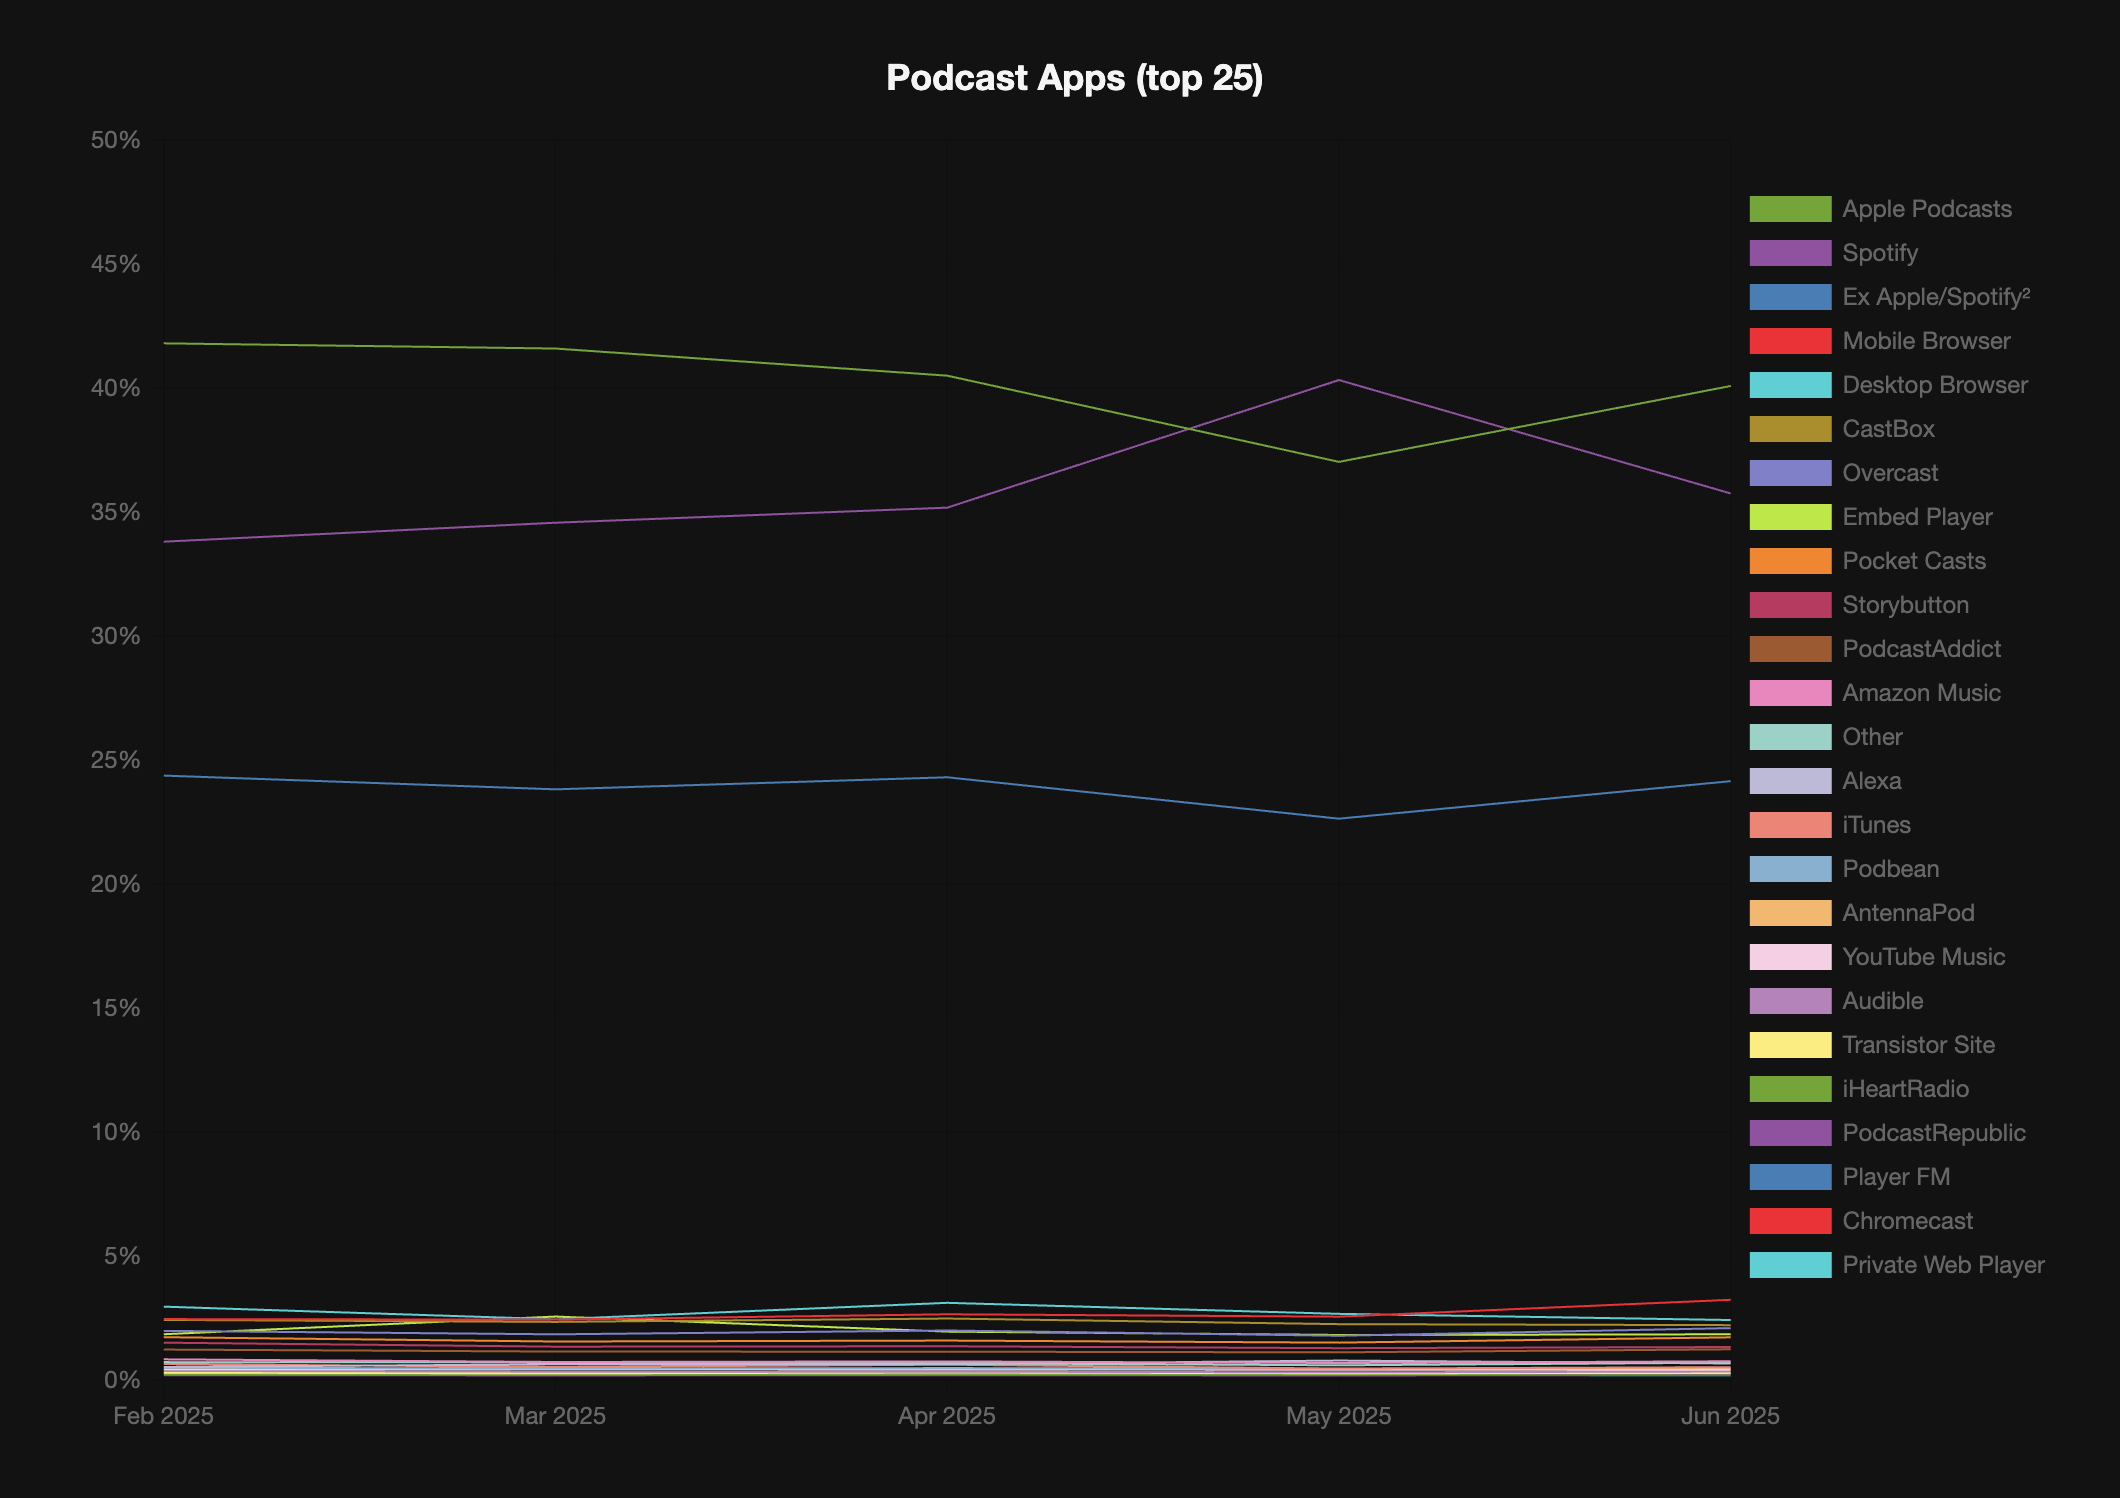
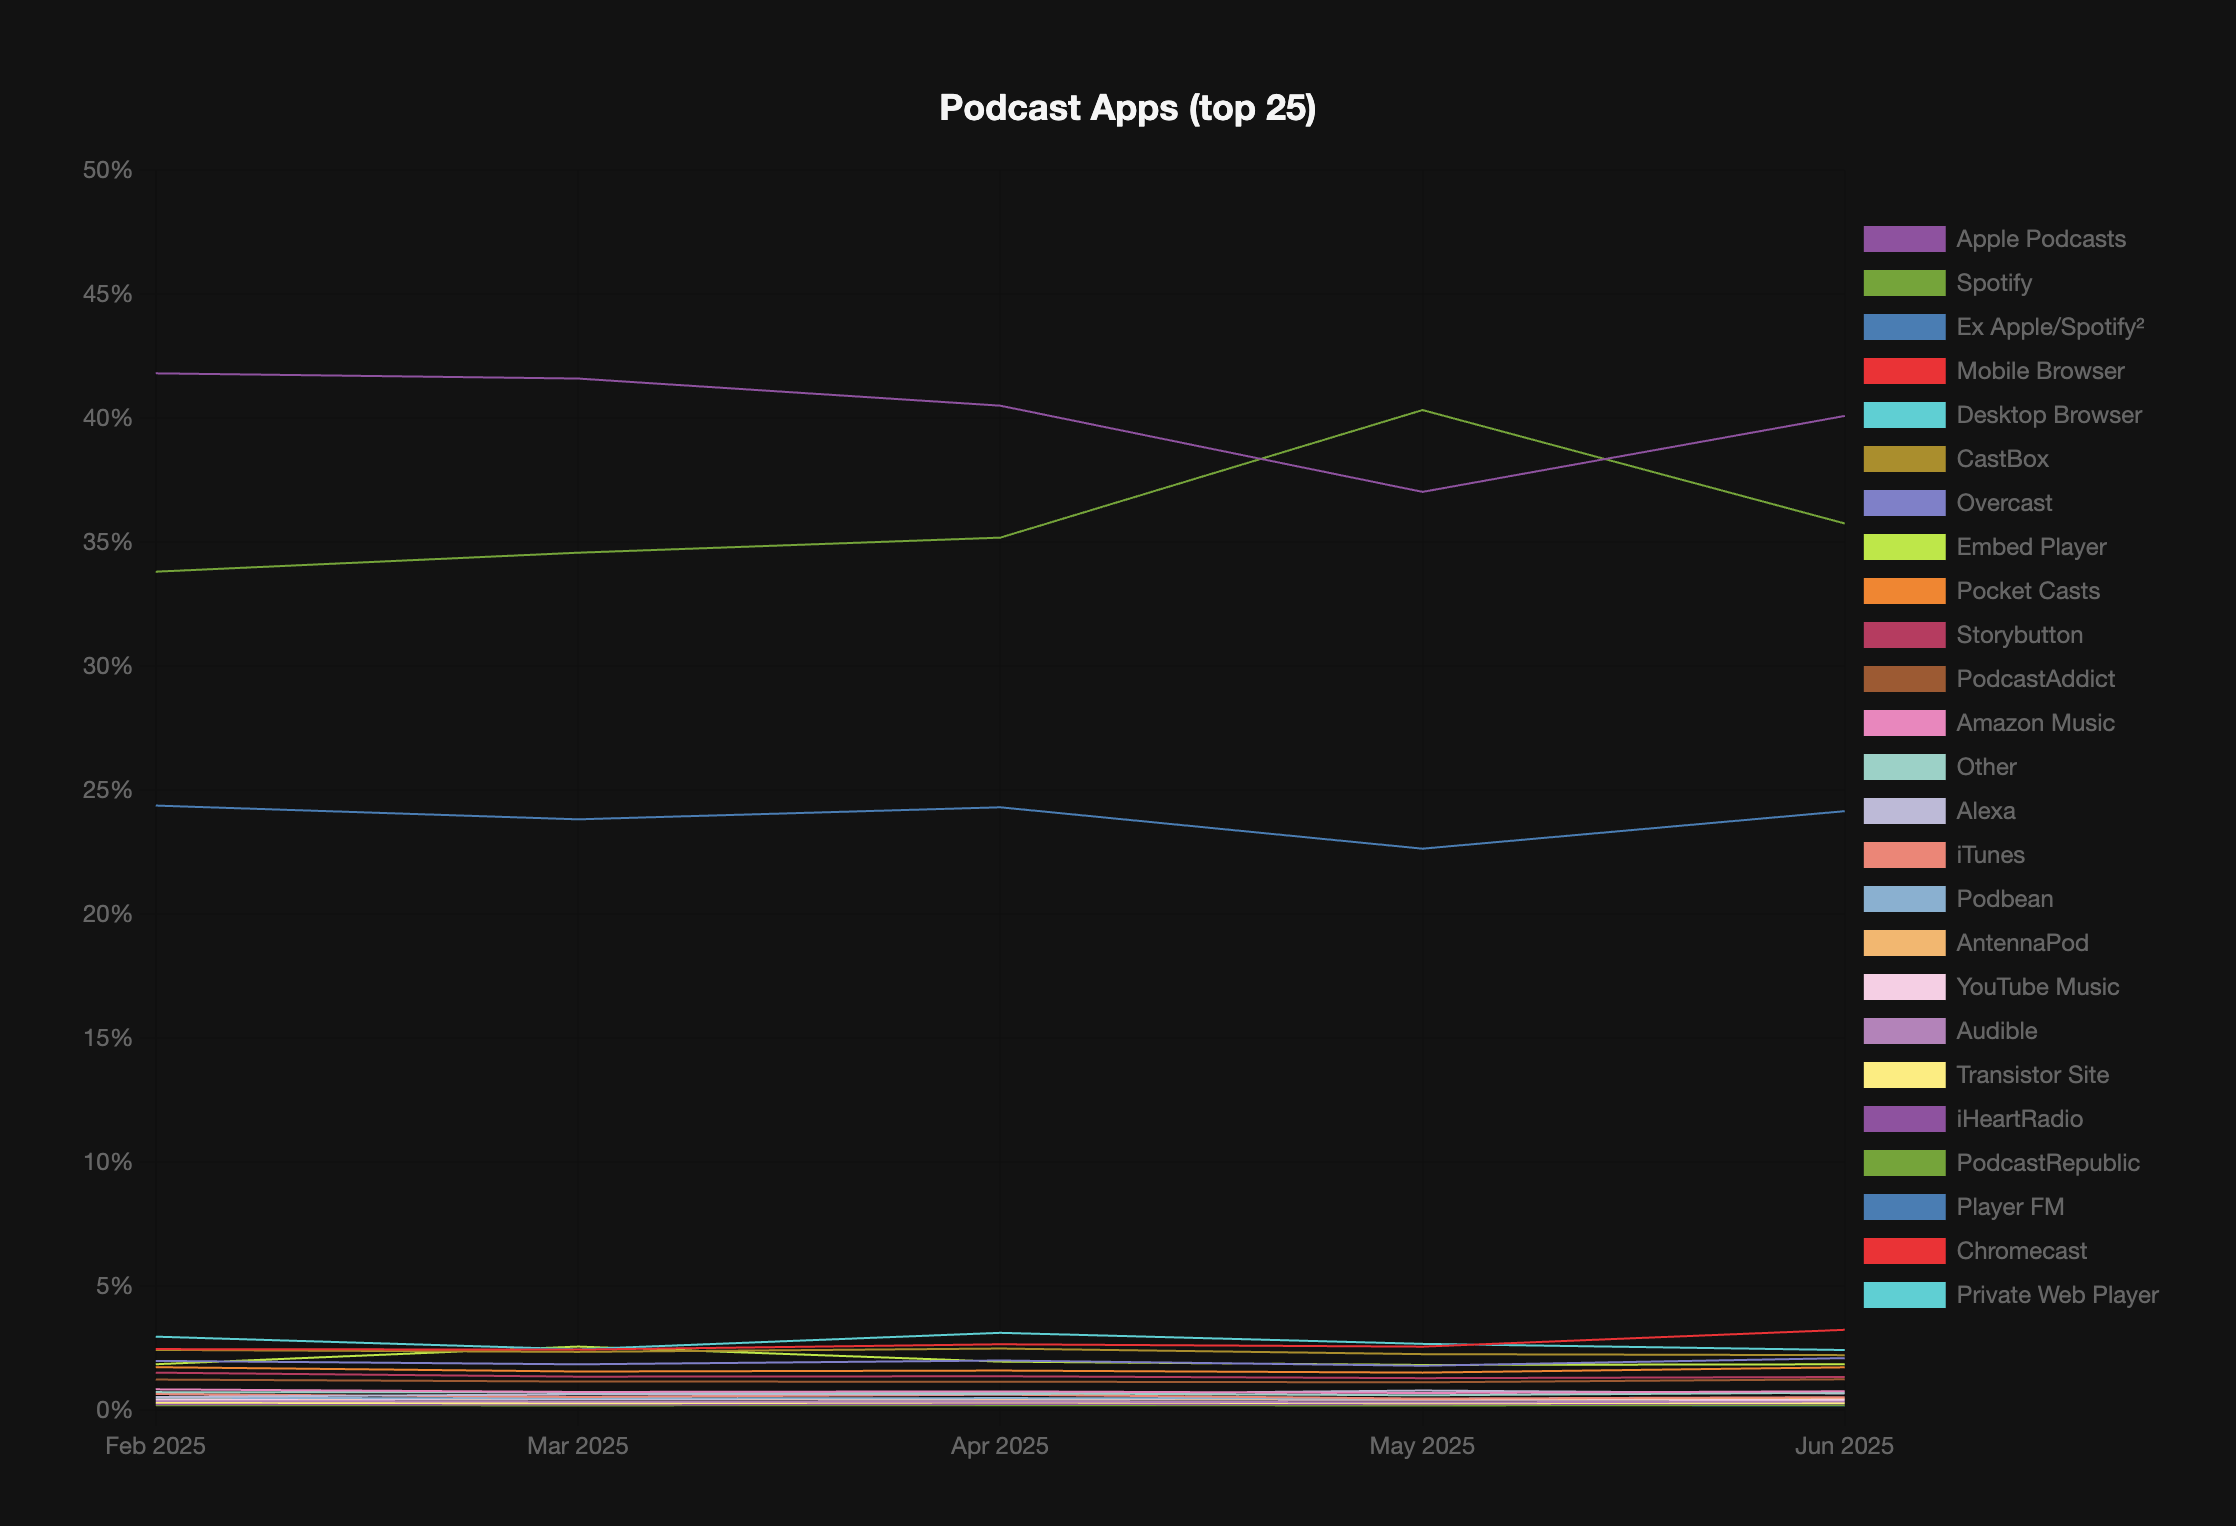
Fix Transistor chart colors.

diff --git a/content/posts/transistor-stats-visualized.md b/content/posts/transistor-stats-visualized.md
@@ -18,7 +18,7 @@ We thought it might be fun to graph this data in order to visualize trends over 
 {{% subscribe %}}
 ---
 
-{{< graph apps "Podcast Apps (top 25)" "limit:25,legendPosition:right,colorShift:0,greenIndex:0,height:700px">}}
+{{< graph apps "Podcast Apps (top 25)" "limit:25,legendPosition:right,colorShift:0,greenIndex:1,height:700px">}}
 Month	Apple Podcasts	Spotify	Ex Apple/Spotify²	Mobile Browser	Desktop Browser	CastBox	Overcast	Embed Player	Pocket Casts	Storybutton	PodcastAddict	Amazon Music	Other	Alexa	iTunes	Podbean	AntennaPod	YouTube Music	Audible	Transistor Site	iHeartRadio	PodcastRepublic	Player FM	Chromecast	Private Web Player	FMRadio	iVoox	Samsung	NPR One	Downcast	Podcast Guru	Snipd	Pandora	Deezer	Podimo	Radio thmanyah	Facebook	The Podcast App	Google Podcasts	SiriusXM	TuneIn	Global Player	JioSaavn	audiobookshelf	gPodder	Castro	Anghami	Fountain	iCatcher	myTuner	BeyondPod	RSSRadio	Windows Media Player	Earmark	Twitter	VictorReader	MusicBee	DoggCatcher	Sonos	VLC	radio.de	Castamatic	Xiaoyuzhou	PodCruncher	Roku	FocusPodcast	NetCast	PodMe	Neuecast	MediaMonkey	Garmin Watch	Apple iMessage	Rhythmbox	Podverse	Podplay	Clementine	Mimir	CloudPlayer	Roya Waves	NRC Audio	Queue	Bose	Gaana	RadioPlayer	Procast	Metacast	TikTok	BashPodder	Podcini	Podurama	Luminary	Podeo	Anytime Podcast Player	Zune	KKBOX	Cooler	Winamp	Outcast	Podcast Player	Reeder	Outlook	Podkicker	Sony Bravia	Playapod	PeaCast	MoonFM	Squeezebox	ServeStream	Himalaya	Instacast	Amazon Fire TV	'sodes	Stitcher	Castaway	RadioPublic	Xbox	Kodi	Samsung Free	PodMatch	UCast	Bullhorn	Hubhopper	Nvidia Shield	PodMN	Podbbang	AllYouCanBooks	WynkMusic	Goodpods	Repod	Playstation 5
 Feb 2025	41.809	33.811	24.380000000000003	2.464	2.966	2.431	1.989	1.853	1.734	1.513	1.235	0.841	0.729	0.534	0.652	0.503	0.497	0.445	0.374	0.303	0.242	0.203	0.262	0.229	0.246	0.144	0.224	0.144	0.074	0.123	0.11	0.108	0.116	0.074	0.113	0.124	0.058	0.058	0.069	0.057	0.047	0.048	0.042	0.04	0.029	0.036	0.029	0.024	0.023	0.02	0.018	0.018	0.015	0.008	0.001	0.011	0.007	0.009	0.012	0.012	0.007	0.003	0.004	0.007	0.004	0.001	0.001	0.007	0.003	0.005	0.004	0.004	0.007	0.002	0.003	0.001	0.001	0.002	0.002	0.002	0.001	0.001	0	0.001	0.001	0.001	0	0	0.001	0.001	0.001	0.001	0	0.001	0.001	0.001	0	0	0	0.001	0	0	0	0.001	0.001	0	0	0	0	0	0	0	0		0	0	0	0				0	0						0	0
 Mar 2025	41.599	34.576	23.825000000000003	2.443	2.457	2.351	1.85	2.566	1.56	1.352	1.155	0.735	0.718	0.641	0.532	0.47	0.467	0.441	0.342	0.277	0.228	0.192	0.269	0.213	0.208	0.153	0.24	0.137	0.366	0.12	0.103	0.097	0.09	0.069	0.078	0.076	0.047	0.057	0.072	0.056	0.043	0.049	0.083	0.066	0.028	0.034	0.035	0.022	0.02	0.019	0.018	0.015	0.015	0.008	0.002	0.012	0.008	0.01	0.01	0.008	0.008	0.003	0.007	0.005	0.004	0.002	0.002	0.005	0.002	0.003	0.004	0.004	0.005	0.003	0.003	0	0.002	0.002	0.008	0.001	0.001	0.001	0	0.001	0.001	0.001	0	0.001	0.001	0.001	0.001	0.001	0	0.003	0.001	0.001	0	0	0	0	0	0	0	0	0.001	0	0.001	0	0	0	0	0	0		0		0	0				0	0		0	0	0	0		
@@ -48,7 +48,7 @@ Now, since Transistor provides a download share ranking order for apps every mon
 
 ---
 
-{{< graph appranks "Podcast Apps (Rank Position)" "type:rankings,height:1800px,greenIndex:0,legendPosition:bottom">}}
+{{< graph appranks "Podcast Apps (Rank Position)" "type:rankings,height:1800px,greenIndex:1,legendPosition:bottom">}}
 Month	Apple Podcasts	Spotify	Ex Apple/Spotify²	Mobile Browser	Desktop Browser	CastBox	Overcast	Embed Player	Pocket Casts	Storybutton	PodcastAddict	Amazon Music	Other	Alexa	iTunes	Podbean	AntennaPod	YouTube Music	Audible	Transistor Site	iHeartRadio	PodcastRepublic	Player FM	Chromecast	Private Web Player	FMRadio	iVoox	Samsung	NPR One	Downcast	Podcast Guru	Snipd	Pandora	Deezer	Podimo	Radio thmanyah	Facebook	The Podcast App	Google Podcasts	SiriusXM	TuneIn	Global Player	JioSaavn	audiobookshelf	gPodder	Castro	Anghami	Fountain	iCatcher	myTuner	BeyondPod	RSSRadio	Windows Media Player	Earmark	Twitter	VictorReader	MusicBee	DoggCatcher	Sonos	VLC	radio.de	Castamatic	Xiaoyuzhou	PodCruncher	Roku	FocusPodcast	NetCast	PodMe	Neuecast	MediaMonkey	Garmin Watch	Apple iMessage	Rhythmbox	Podverse	Podplay	Clementine	Mimir	CloudPlayer	Roya Waves	NRC Audio	Queue	Bose	Gaana	RadioPlayer	Procast	Metacast	TikTok	BashPodder	Podcini	Podurama	Luminary	Podeo	Anytime Podcast Player	Zune	KKBOX	Cooler	Winamp	Outcast	Podcast Player	Reeder	Outlook	Podkicker	Sony Bravia	Playapod	PeaCast	MoonFM	Squeezebox	ServeStream	Himalaya	Instacast	Amazon Fire TV	'sodes	Stitcher	Castaway	RadioPublic	Xbox	Kodi	Samsung Free	PodMatch	UCast	Bullhorn	Hubhopper	Nvidia Shield	PodMN	Podbbang	AllYouCanBooks	WynkMusic	Goodpods	Repod	Playstation 5
 Feb 2025	1	2		4	3	5	6	7	8	9	10	11	12	14	13	15	16	17	18	19	22	25	20	23	21	27	24	26	34	29	32	33	30	35	31	28	38	37	36	39	41	40	42	43	45	44	46	47	48	49	50	51	52	57	78	55	60	56	53	54	59	68	67	62	65	84	85	58	69	63	66	64	61	72	70	77	75	73	71	74	82	79	95	88	89	83	107	97	86	80	87	76	96	90	81	91	99	101	108	94	103	98	105	92	93	100	104	114	106	109	102	110	112		111	115	116	117				119	113						118	120
 Mar 2025	1	2		5	4	6	7	3	8	9	10	11	12	13	14	15	16	17	19	20	23	26	21	24	25	27	22	28	18	29	30	31	32	37	34	35	42	39	36	40	43	41	33	38	46	45	44	47	48	49	50	51	52	57	75	53	60	55	54	56	58	68	61	63	67	76	78	64	74	69	66	65	62	70	72	104	73	77	59	79	80	81	96	82	90	83	101	93	88	84	89	86	94	71	87	91	97	98	103	95	105	99	100	111	92	107	85	108	102	112	106	109	110		113		117	114				121	116		115	120	118	119		
